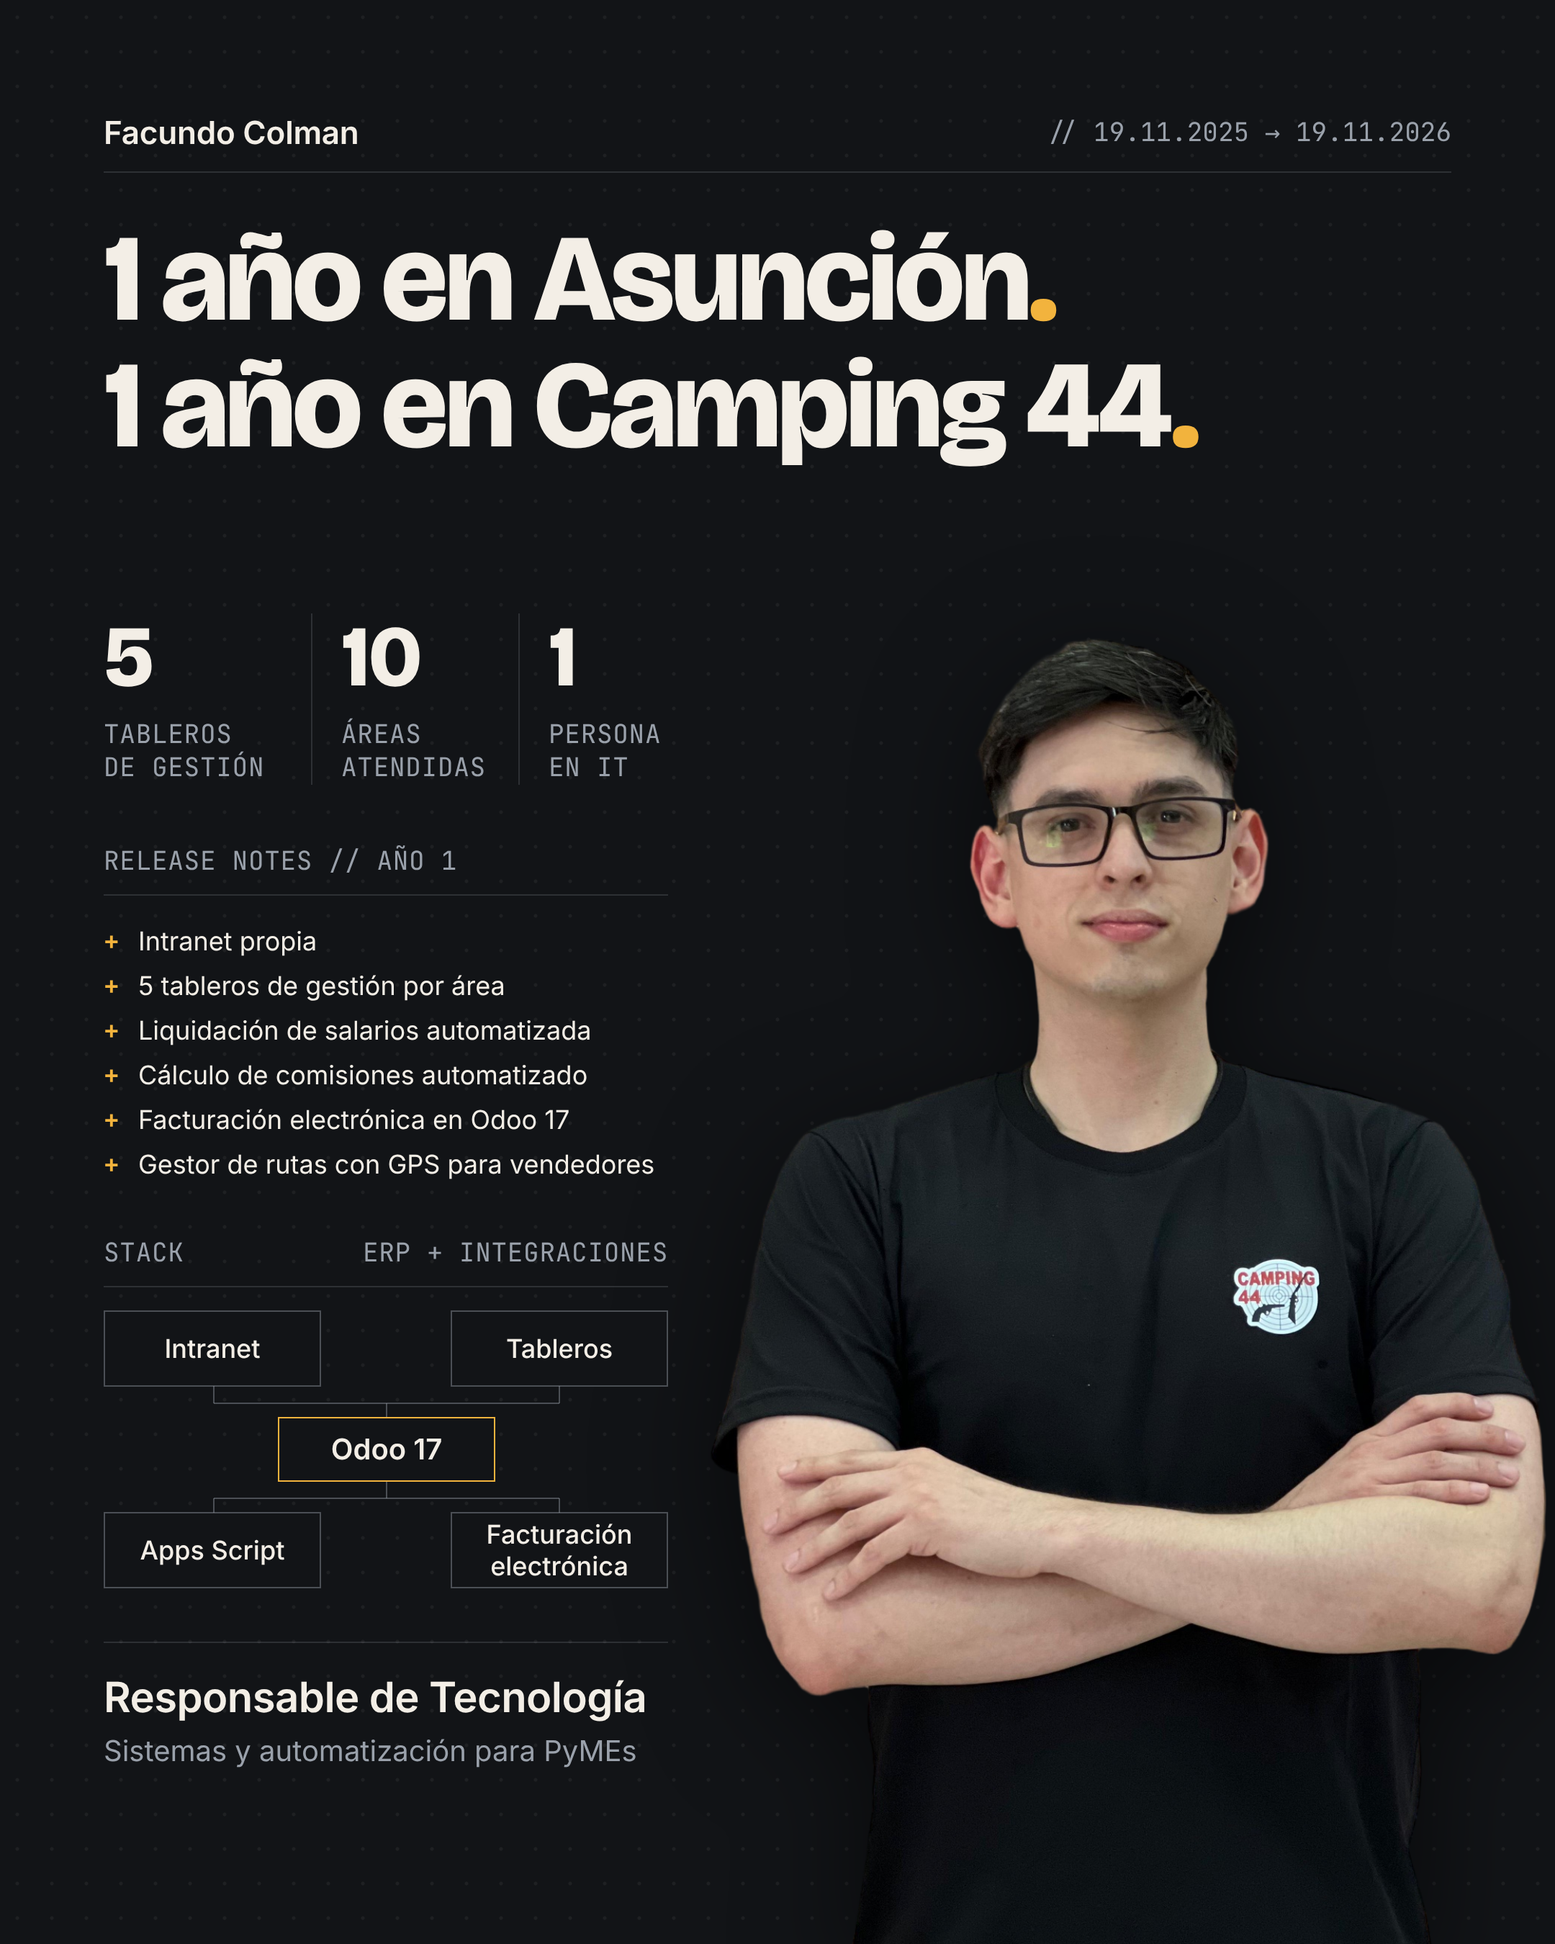
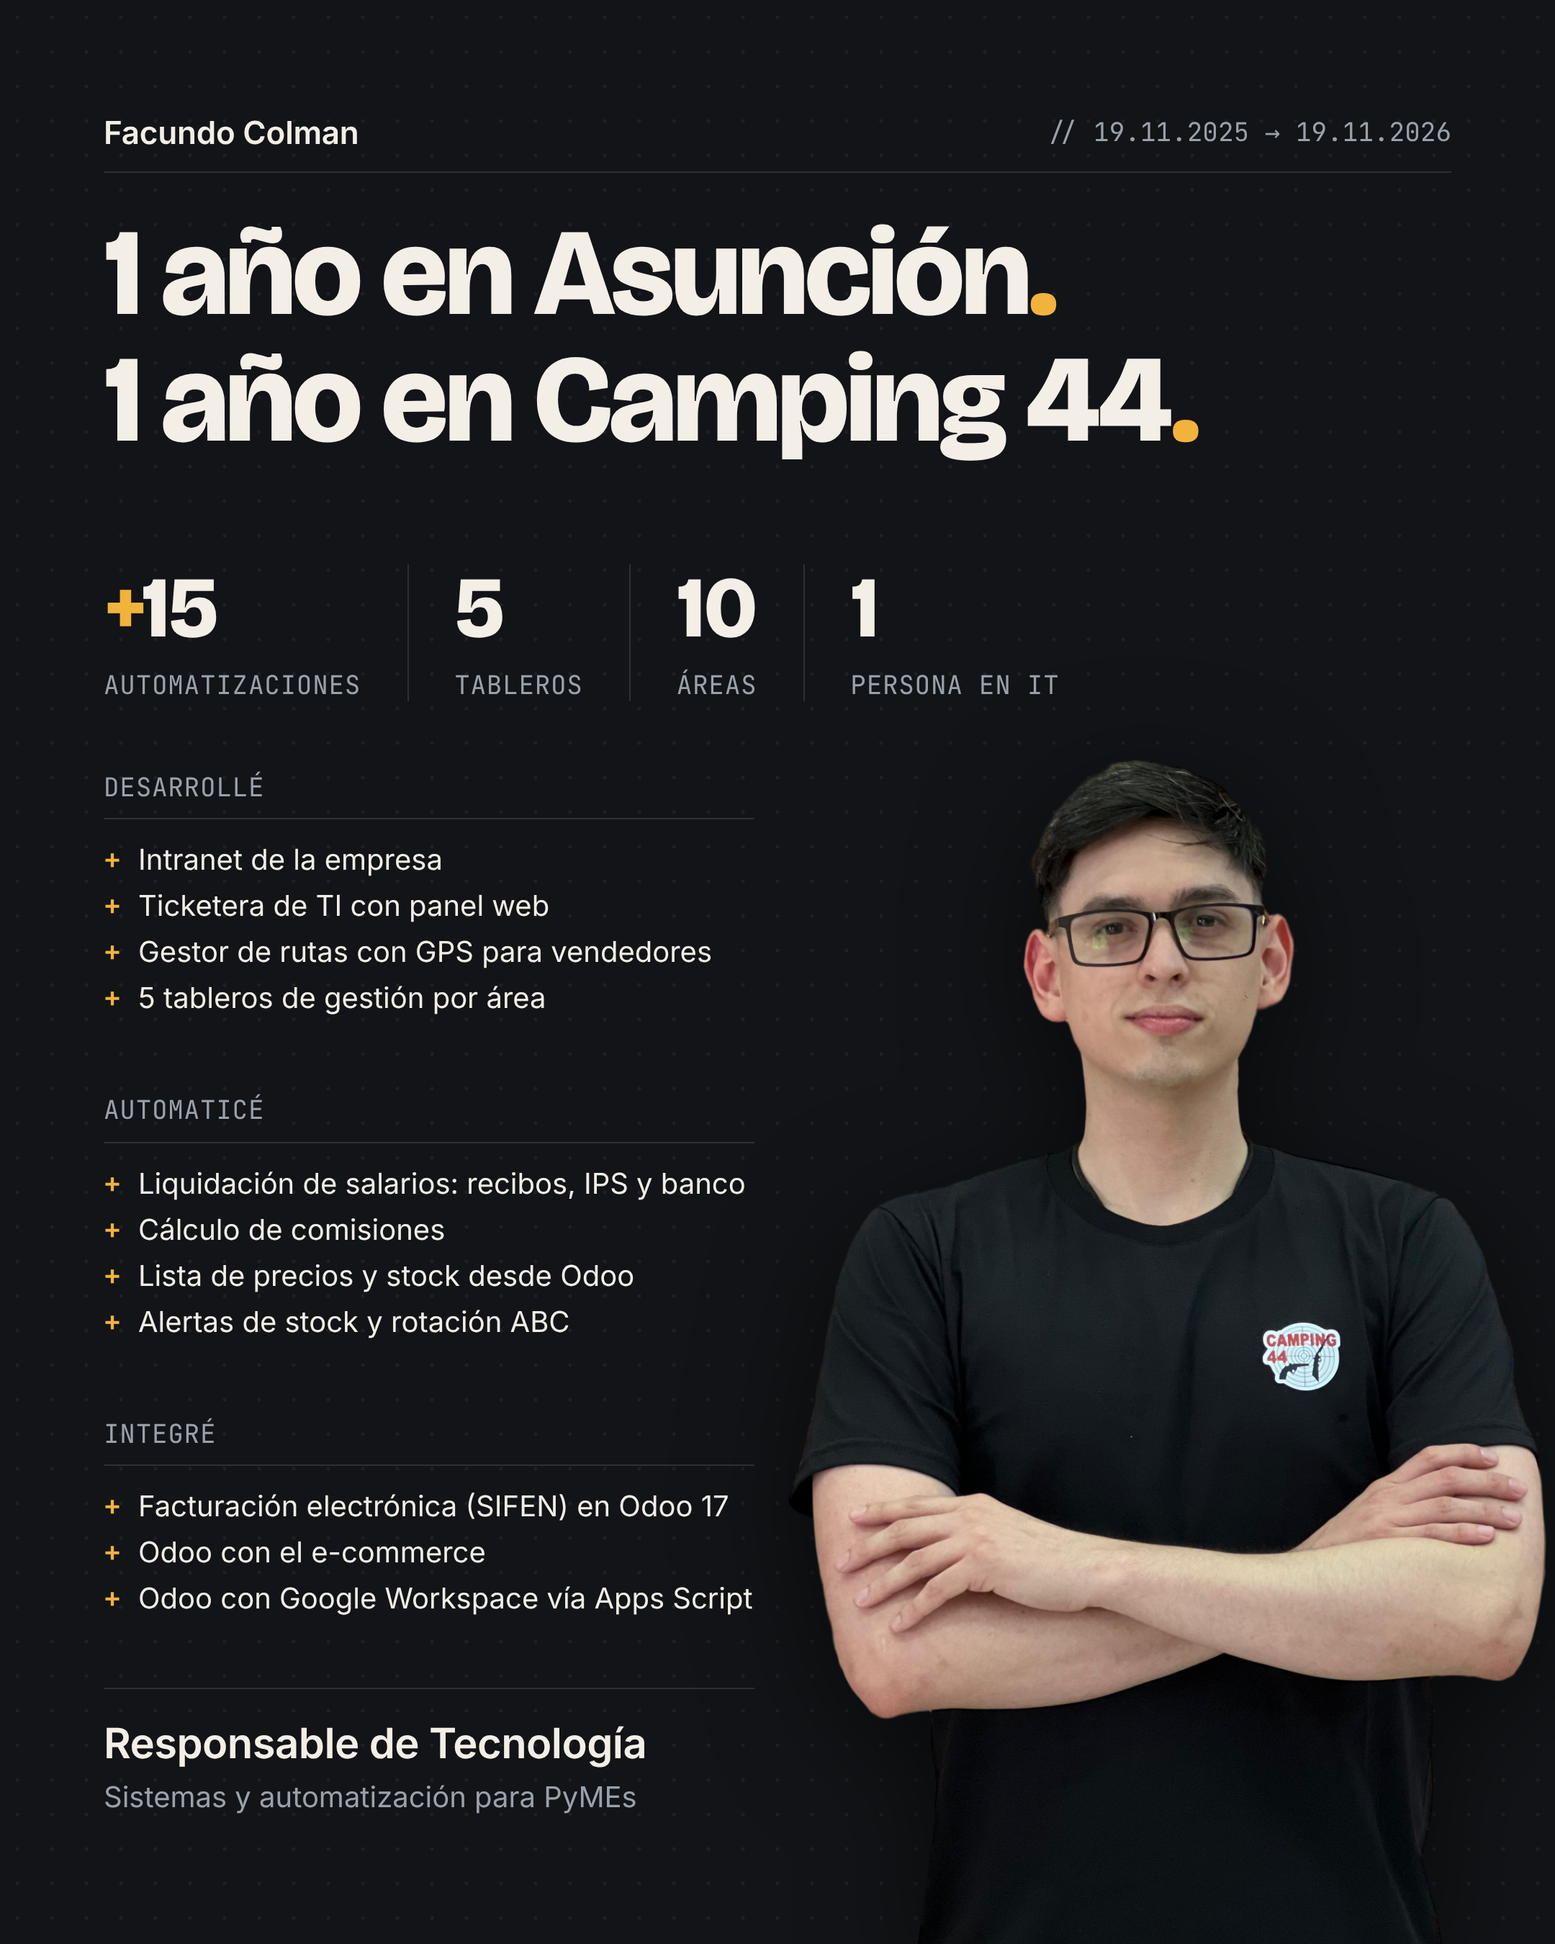
Post LinkedIn: más volumen de trabajo (4 datos + 3 grupos)
- Elimina el bloque STACK y su diagrama
- Fila de 4 datos: +15 automatizaciones, 5 tableros, 10 áreas, 1 persona en IT
- Reemplaza Release notes por los grupos Desarrollé / Automaticé / Integré (ítems a 20 px, una línea)
- Foto a 527 px de ancho para que los ítems largos no toquen los brazos

Claude-Session: https://claude.ai/code/session_01QmKcF7XnkXzDbM9dM3Boey

diff --git a/src/build.js b/src/build.js
@@ -1,6 +1,6 @@
 // Genera src/post.html (HTML + SVG) y lo renderiza a output/linkedin_1anio.png (2x) con Playwright.
 // Uso:  node src/build.js            (desde la raíz del repo)
-// Además verifica que ningún texto quede tapado o pegado a la foto (mínimo 28 px de aire).
+// Con LAYOUT_JSON=<archivo> exporta las cajas de cada texto para verificar el aire con la foto.
 const fs = require('fs');
 const path = require('path');
 const { chromium } = require('playwright');
@@ -11,57 +11,37 @@ const OUT = path.join(SRC, '..', 'output');
 const C = { ivory: '#F3EEE6', gray: '#9AA1AB', gold: '#F2B33D', bg: '#121417',
             box: 'rgba(154,161,171,0.42)' };
 
-const RELEASE_NOTES = [
-  'Intranet propia',
-  '5 tableros de gestión por área',
-  'Liquidación de salarios automatizada',
-  'Cálculo de comisiones automatizado',
-  'Facturación electrónica en Odoo 17',
-  'Gestor de rutas con GPS para vendedores',
+const GROUPS = [
+  ['Desarrollé', [
+    'Intranet de la empresa',
+    'Ticketera de TI con panel web',
+    'Gestor de rutas con GPS para vendedores',
+    '5 tableros de gestión por área',
+  ]],
+  ['Automaticé', [
+    'Liquidación de salarios: recibos, IPS y banco',
+    'Cálculo de comisiones',
+    'Lista de precios y stock desde Odoo',
+    'Alertas de stock y rotación ABC',
+  ]],
+  ['Integré', [
+    'Facturación electrónica (SIFEN) en Odoo 17',
+    'Odoo con el e-commerce',
+    'Odoo con Google Workspace vía Apps Script',
+  ]],
 ];
 
 // Posiciones verticales (px CSS) de cada bloque
-const L = { stats: 426, notes: 586, stack: 858, footer: 1140 };
-
-// ---------- Diagrama del stack (SVG) ----------
-// 4 cajas exteriores del mismo ancho, Odoo 17 al centro, conectores simétricos arriba y abajo.
-function stackDiagram() {
-  const width = 392, boxW = 150, nodeH = 52, hubW = 150, hubH = 44, gapY = 22;
-  const yTop = 0.5, yHub = yTop + nodeH + gapY, yBot = yHub + hubH + gapY;
-  const h = Math.ceil(yBot + nodeH + 1);
-  const xL = 0.5, xR = width - boxW - 0.5, xHub = (width - hubW) / 2 + 0.5;
-  const cxL = Math.round(xL + boxW / 2) + 0.5, cxR = Math.round(xR + boxW / 2) - 0.5, cxHub = width / 2 + 0.5;
-  const busTop = Math.round(yTop + nodeH + gapY / 2) + 0.5;
-  const busBot = Math.round(yHub + hubH + gapY / 2) + 0.5;
-  const line = (x1, y1, x2, y2) =>
-    `<line x1="${x1}" y1="${y1}" x2="${x2}" y2="${y2}" stroke="${C.box}" stroke-width="1"/>`;
-  const txt = (x, y, lines, size = 18, weight = 500) => {
-    const lh = 22, y0 = y - ((lines.length - 1) * lh) / 2;
-    return lines.map((t, i) =>
-      `<text x="${x}" y="${y0 + i * lh + size * 0.36}" text-anchor="middle" font-family="Inter, sans-serif" font-size="${size}" font-weight="${weight}" fill="${C.ivory}">${t}</text>`).join('');
-  };
-  const node = (x, y, lines) =>
-    `<rect x="${x}" y="${y}" width="${boxW}" height="${nodeH}" fill="${C.bg}" stroke="${C.box}" stroke-width="1" shape-rendering="crispEdges"/>` +
-    txt(x + boxW / 2, y + nodeH / 2, lines);
-
-  let s = `<svg class="diagram" width="${width}" height="${h}" viewBox="0 0 ${width} ${h}" xmlns="http://www.w3.org/2000/svg">`;
-  s += '<g shape-rendering="crispEdges">';
-  // arriba
-  s += line(cxHub, yHub, cxHub, busTop) + line(cxL, busTop, cxR, busTop);
-  s += line(cxL, busTop, cxL, yTop + nodeH) + line(cxR, busTop, cxR, yTop + nodeH);
-  // abajo (espejo exacto)
-  s += line(cxHub, yHub + hubH, cxHub, busBot) + line(cxL, busBot, cxR, busBot);
-  s += line(cxL, busBot, cxL, yBot) + line(cxR, busBot, cxR, yBot);
-  s += '</g>';
-  s += node(xL, yTop, ['Intranet']) + node(xR, yTop, ['Tableros']);
-  s += node(xL, yBot, ['Apps Script']) + node(xR, yBot, ['Facturación', 'electrónica']);
-  s += `<rect x="${xHub}" y="${yHub}" width="${hubW}" height="${hubH}" fill="${C.bg}" stroke="${C.gold}" stroke-width="1" shape-rendering="crispEdges"/>`;
-  s += txt(xHub + hubW / 2, yHub + hubH / 2, ['Odoo 17'], 20, 600);
-  return s + '</svg>';
-}
+const L = { stats: 392, groups: 535, footer: 1172 };
 
 function page() {
-  const notes = RELEASE_NOTES.map(t => `<li><span class="plus">+</span>${t}</li>`).join('\n      ');
+  const groups = GROUPS.map(([title, items]) => `
+    <div class="group">
+      <div class="section-head"><span class="label">${title}</span></div>
+      <ul class="notes">
+        ${items.map(t => `<li><span class="plus">+</span>${t}</li>`).join('\n        ')}
+      </ul>
+    </div>`).join('');
   return `<!doctype html>
 <html lang="es">
 <head>
@@ -85,21 +65,13 @@ function page() {
   <img class="photo" src="foto_recorte.png" alt="Facundo Colman">
 
   <section class="content stats" style="top:${L.stats}px">
-    <div class="stat"><div class="num">5</div><div class="label">Tableros<br>de gestión</div></div>
-    <div class="stat"><div class="num">10</div><div class="label">Áreas<br>atendidas</div></div>
-    <div class="stat"><div class="num">1</div><div class="label">Persona<br>en IT</div></div>
+    <div class="stat"><div class="num"><span class="dot">+</span>15</div><div class="label">Automatizaciones</div></div>
+    <div class="stat"><div class="num">5</div><div class="label">Tableros</div></div>
+    <div class="stat"><div class="num">10</div><div class="label">Áreas</div></div>
+    <div class="stat"><div class="num">1</div><div class="label">Persona en IT</div></div>
   </section>
 
-  <section class="content" style="top:${L.notes}px">
-    <div class="section-head"><span class="label">Release notes // Año 1</span></div>
-    <ul class="notes">
-      ${notes}
-    </ul>
-  </section>
-
-  <section class="content" style="top:${L.stack}px">
-    <div class="section-head"><span class="label">Stack</span><span class="label">ERP + integraciones</span></div>
-    ${stackDiagram()}
+  <section class="content groups" style="top:${L.groups}px">${groups}
   </section>
 
   <footer class="footer" style="top:${L.footer}px">
@@ -124,14 +96,14 @@ function page() {
   await p.goto('file://' + file, { waitUntil: 'networkidle' });
   await p.evaluate(() => document.fonts.ready);
   const missing = await p.evaluate(() =>
-    ['800 40px "Bricolage Grotesque"', '400 20px Inter', '500 18px Inter', '600 20px Inter', '400 18px "JetBrains Mono"']
+    ['800 40px "Bricolage Grotesque"', '400 20px Inter', '600 20px Inter', '400 18px "JetBrains Mono"']
       .filter(f => !document.fonts.check(f)));
   if (missing.length) throw new Error('Fuentes sin cargar: ' + missing.join(', '));
 
   // --- Verificación: aire entre cada texto/caja y la silueta de la foto ---
   const info = await p.evaluate(() => {
     const img = document.querySelector('.photo').getBoundingClientRect();
-    const els = [...document.querySelectorAll('.content .num, .content .label, .notes li, .diagram rect, .diagram text, .section-head, .footer .role, .footer .tag, .footer')];
+    const els = [...document.querySelectorAll('.content .num, .content .label, .notes li, .section-head, .footer .role, .footer .tag, .footer')];
     const boxes = els.map(e => {
       let r = e.getBoundingClientRect();
       // para bloques de texto, medir el ancho real del texto (no el del contenedor)

diff --git a/src/post.html b/src/post.html
@@ -20,30 +20,43 @@
 
   <img class="photo" src="foto_recorte.png" alt="Facundo Colman">
 
-  <section class="content stats" style="top:426px">
-    <div class="stat"><div class="num">5</div><div class="label">Tableros<br>de gestión</div></div>
-    <div class="stat"><div class="num">10</div><div class="label">Áreas<br>atendidas</div></div>
-    <div class="stat"><div class="num">1</div><div class="label">Persona<br>en IT</div></div>
+  <section class="content stats" style="top:392px">
+    <div class="stat"><div class="num"><span class="dot">+</span>15</div><div class="label">Automatizaciones</div></div>
+    <div class="stat"><div class="num">5</div><div class="label">Tableros</div></div>
+    <div class="stat"><div class="num">10</div><div class="label">Áreas</div></div>
+    <div class="stat"><div class="num">1</div><div class="label">Persona en IT</div></div>
   </section>
 
-  <section class="content" style="top:586px">
-    <div class="section-head"><span class="label">Release notes // Año 1</span></div>
-    <ul class="notes">
-      <li><span class="plus">+</span>Intranet propia</li>
-      <li><span class="plus">+</span>5 tableros de gestión por área</li>
-      <li><span class="plus">+</span>Liquidación de salarios automatizada</li>
-      <li><span class="plus">+</span>Cálculo de comisiones automatizado</li>
-      <li><span class="plus">+</span>Facturación electrónica en Odoo 17</li>
-      <li><span class="plus">+</span>Gestor de rutas con GPS para vendedores</li>
-    </ul>
+  <section class="content groups" style="top:535px">
+    <div class="group">
+      <div class="section-head"><span class="label">Desarrollé</span></div>
+      <ul class="notes">
+        <li><span class="plus">+</span>Intranet de la empresa</li>
+        <li><span class="plus">+</span>Ticketera de TI con panel web</li>
+        <li><span class="plus">+</span>Gestor de rutas con GPS para vendedores</li>
+        <li><span class="plus">+</span>5 tableros de gestión por área</li>
+      </ul>
+    </div>
+    <div class="group">
+      <div class="section-head"><span class="label">Automaticé</span></div>
+      <ul class="notes">
+        <li><span class="plus">+</span>Liquidación de salarios: recibos, IPS y banco</li>
+        <li><span class="plus">+</span>Cálculo de comisiones</li>
+        <li><span class="plus">+</span>Lista de precios y stock desde Odoo</li>
+        <li><span class="plus">+</span>Alertas de stock y rotación ABC</li>
+      </ul>
+    </div>
+    <div class="group">
+      <div class="section-head"><span class="label">Integré</span></div>
+      <ul class="notes">
+        <li><span class="plus">+</span>Facturación electrónica (SIFEN) en Odoo 17</li>
+        <li><span class="plus">+</span>Odoo con el e-commerce</li>
+        <li><span class="plus">+</span>Odoo con Google Workspace vía Apps Script</li>
+      </ul>
+    </div>
   </section>
 
-  <section class="content" style="top:858px">
-    <div class="section-head"><span class="label">Stack</span><span class="label">ERP + integraciones</span></div>
-    <svg class="diagram" width="392" height="194" viewBox="0 0 392 194" xmlns="http://www.w3.org/2000/svg"><g shape-rendering="crispEdges"><line x1="196.5" y1="74.5" x2="196.5" y2="64.5" stroke="rgba(154,161,171,0.42)" stroke-width="1"/><line x1="76.5" y1="64.5" x2="316.5" y2="64.5" stroke="rgba(154,161,171,0.42)" stroke-width="1"/><line x1="76.5" y1="64.5" x2="76.5" y2="52.5" stroke="rgba(154,161,171,0.42)" stroke-width="1"/><line x1="316.5" y1="64.5" x2="316.5" y2="52.5" stroke="rgba(154,161,171,0.42)" stroke-width="1"/><line x1="196.5" y1="118.5" x2="196.5" y2="130.5" stroke="rgba(154,161,171,0.42)" stroke-width="1"/><line x1="76.5" y1="130.5" x2="316.5" y2="130.5" stroke="rgba(154,161,171,0.42)" stroke-width="1"/><line x1="76.5" y1="130.5" x2="76.5" y2="140.5" stroke="rgba(154,161,171,0.42)" stroke-width="1"/><line x1="316.5" y1="130.5" x2="316.5" y2="140.5" stroke="rgba(154,161,171,0.42)" stroke-width="1"/></g><rect x="0.5" y="0.5" width="150" height="52" fill="#121417" stroke="rgba(154,161,171,0.42)" stroke-width="1" shape-rendering="crispEdges"/><text x="75.5" y="32.98" text-anchor="middle" font-family="Inter, sans-serif" font-size="18" font-weight="500" fill="#F3EEE6">Intranet</text><rect x="241.5" y="0.5" width="150" height="52" fill="#121417" stroke="rgba(154,161,171,0.42)" stroke-width="1" shape-rendering="crispEdges"/><text x="316.5" y="32.98" text-anchor="middle" font-family="Inter, sans-serif" font-size="18" font-weight="500" fill="#F3EEE6">Tableros</text><rect x="0.5" y="140.5" width="150" height="52" fill="#121417" stroke="rgba(154,161,171,0.42)" stroke-width="1" shape-rendering="crispEdges"/><text x="75.5" y="172.98" text-anchor="middle" font-family="Inter, sans-serif" font-size="18" font-weight="500" fill="#F3EEE6">Apps Script</text><rect x="241.5" y="140.5" width="150" height="52" fill="#121417" stroke="rgba(154,161,171,0.42)" stroke-width="1" shape-rendering="crispEdges"/><text x="316.5" y="161.98" text-anchor="middle" font-family="Inter, sans-serif" font-size="18" font-weight="500" fill="#F3EEE6">Facturación</text><text x="316.5" y="183.98" text-anchor="middle" font-family="Inter, sans-serif" font-size="18" font-weight="500" fill="#F3EEE6">electrónica</text><rect x="121.5" y="74.5" width="150" height="44" fill="#121417" stroke="#F2B33D" stroke-width="1" shape-rendering="crispEdges"/><text x="196.5" y="103.7" text-anchor="middle" font-family="Inter, sans-serif" font-size="20" font-weight="600" fill="#F3EEE6">Odoo 17</text></svg>
-  </section>
-
-  <footer class="footer" style="top:1140px">
+  <footer class="footer" style="top:1172px">
     <div class="role">Responsable de Tecnología</div>
     <div class="tag">Sistemas y automatización para PyMEs</div>
   </footer>

diff --git a/src/styles.css b/src/styles.css
@@ -7,7 +7,7 @@
   --rule: rgba(154, 161, 171, 0.20);   /* divisorias: gris al 20% */
   --box: rgba(154, 161, 171, 0.42);    /* bordes de cajas y conectores */
   --margin: 72px;
-  --col: 392px;                         /* columna de contenido: 72 → 464 */
+  --col: 452px;                         /* columna de contenido: 72 → 524 */
 }
 
 * { box-sizing: border-box; margin: 0; padding: 0; }
@@ -43,7 +43,7 @@ html, body { width: 1080px; height: 1350px; background: var(--bg); }
 /* ---------- Título ---------- */
 .title {
   position: absolute;
-  top: 150px; left: var(--margin);
+  top: 146px; left: var(--margin);
   font-family: "Bricolage Grotesque", sans-serif;
   font-weight: 800;
   font-size: 86px;
@@ -58,7 +58,7 @@ html, body { width: 1080px; height: 1350px; background: var(--bg); }
 .photo {
   position: absolute;
   right: 6px; bottom: 0;              /* codos completos dentro del cuadro */
-  width: 581px;                        /* cabeza a la altura de la fila de números */
+  width: 527px;                        /* máximo que deja ~30 px de aire con los ítems más largos */
   height: auto;
   filter: drop-shadow(0 18px 40px rgba(0, 0, 0, 0.55));
 }
@@ -80,9 +80,11 @@ html, body { width: 1080px; height: 1350px; background: var(--bg); }
 }
 
 /* Datos */
-.stats { display: grid; grid-template-columns: repeat(3, 1fr); width: 432px; } /* sobre los hombros hay lugar */
-.stat { padding-left: 20px; border-left: 1px solid var(--rule); }
+.stats { display: grid; grid-template-columns: repeat(4, auto); justify-content: start; width: auto; }
+.stat { padding: 0 32px; border-left: 1px solid var(--rule); }
+.stat .label { white-space: nowrap; }
 .stat:first-child { padding-left: 0; border-left: 0; }
+.stat .num .dot { color: var(--gold); }
 .stat .num {
   font-family: "Bricolage Grotesque", sans-serif;
   font-weight: 800;
@@ -95,16 +97,17 @@ html, body { width: 1080px; height: 1350px; background: var(--bg); }
 
 .section-head {
   display: flex; justify-content: space-between; align-items: baseline;
-  padding-bottom: 12px;
+  padding-bottom: 10px;
   border-bottom: 1px solid var(--rule);
-  margin-bottom: 16px;
+  margin-bottom: 12px;
 }
 
-/* Release notes */
+/* Grupos: Desarrollé / Automaticé / Integré */
+.groups { display: flex; flex-direction: column; gap: 50px; }
 .notes { list-style: none; }
 .notes li {
   display: flex; align-items: baseline;
-  font-size: 18px; line-height: 31px; font-weight: 400;
+  font-size: 20px; line-height: 32px; font-weight: 400;
   color: var(--ivory);
   white-space: nowrap;
 }
